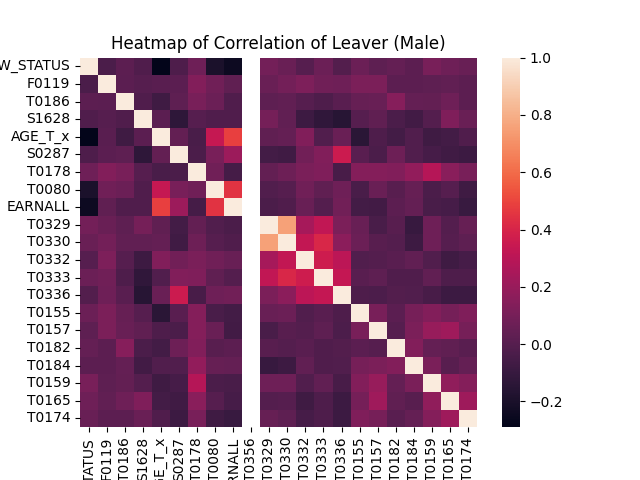
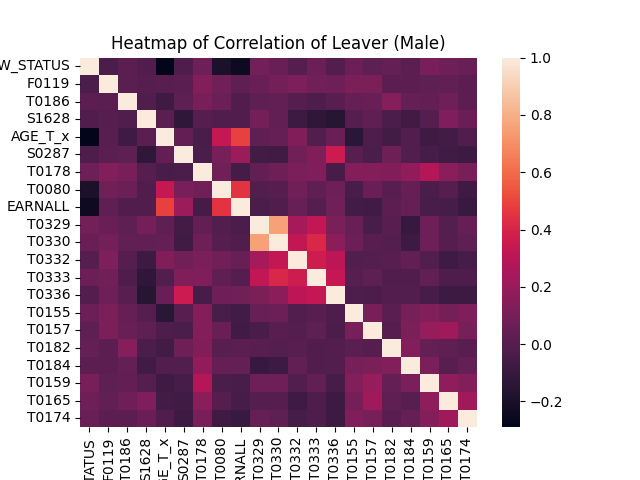
Updated Multiple Regression for all variables | Need to add graph for multi regression

diff --git a/the_code/logistical_regression_multi.py b/the_code/logistical_regression_multi.py
@@ -11,9 +11,9 @@ import matplotlib.pyplot as plt
 import seaborn as sns
 matplotlib.use('Qt5Agg')
 
-df = pd.read_csv('source\data_cleaning\cleaned_data.csv')
-df1 = pd.read_csv('source\data_cleaning\cleaned_data_male.csv')
-df2 = pd.read_csv('source\data_cleaning\cleaned_data_female.csv')
+df = pd.read_csv('source/data_cleaning/cleaned_data.csv')
+df1 = pd.read_csv('source/data_cleaning/cleaned_data_male.csv')
+df2 = pd.read_csv('source/data_cleaning/cleaned_data_female.csv')
 
 
 
@@ -122,41 +122,39 @@ def regressMulti6():
 
 
 def regressMulti7():
-    model = smf.logit('NEW_STATUS ~ C(F0119) + C(T0186) + C(S1628) + C(AGE_T_x) + C(S0287) + C(T0178) + C(T0080) + C(EARNALL)', data = df).fit()
+    model = smf.logit('NEW_STATUS ~ C(F0119) + C(T0186) + C(S1628) + C(AGE_T_x) + C(S0287) + C(T0178) + C(T0080) + C(EARNALL) + C(T0329) + C(T0330) + C(T0332) + C(T0333) +C(T0336) +C(T0336) +C(T0155) +C(T0157) +C(T0182) +C(T0184) +C(T0159) +C(T0165) +C(T0174)', data = df).fit()
     print(model.summary(yname="Status Leaver",
     xname=['Intercept', 'Not Pleased Prof Dev (Overall)', 'No salary increase becasue of prof dev (Overall)', 'No Free Training Avaliable (Overall)',
     'Younger than 40 (Overall)', '20 percent or more free lunch (Overall)','Not useful prof dev (Overall)', 'No Masters Degree (Overall)',
-    'Teachers that make less than 39,999k (Overall)'], 
+    'Teachers that make less than 39,999k (Overall)', 'Student Alcohol Abuse Problem', 'Student Drug Abuse Problem', 'Disrespect Towards Teachers', 'Problem with dropouts',
+    'Problem With Poverty', 'No Mentorship or Couching', 'No Prof Dev Workshops', 'No Tuition reimbersement', 'No reimbersement daily expenses',
+    'No Prof Dev Main Assign', 'No Prof Dev Methods', 'No Prof Dev Student Discipline'], 
     title=' Multiple Linear Regression on F0119, T0186, S1628, AGE_T_x, S0287, T0178 (Overall)'))
     print()
-    model1 = smf.logit('NEW_STATUS ~ C(F0119) + C(T0186) + C(S1628) + C(AGE_T_x) + C(S0287) + C(T0178) + C(T0080) + C(EARNALL)', data = df1).fit()
-    print(model1.summary(yname="Status Leaver",
+
+    model = smf.logit('NEW_STATUS ~ C(F0119) + C(T0186) + C(S1628) + C(AGE_T_x) + C(S0287) + C(T0178) + C(T0080) + C(EARNALL) + C(T0329) + C(T0330) + C(T0332) + C(T0333) +C(T0336) +C(T0336) +C(T0155) +C(T0157) +C(T0182) +C(T0184) +C(T0159) +C(T0165) +C(T0174)', data = df1).fit()
+    print(model.summary(yname="Status Leaver",
     xname=['Intercept', 'Not Pleased Prof Dev (Male)', 'No salary increase becasue of prof dev (Male)', 'No Free Training Avaliable (Male)',
     'Younger than 40 (Male)', '20 percent or more free lunch (Male)','Not useful prof dev (Female)', 'No Masters Degree (Male)',
-    'Teachers that make less than 39,999k (Male)'], 
+    'Teachers that make less than 39,999k (Male)', 'Student Alcohol Abuse Problem', 'Student Drug Abuse Problem', 'Disrespect Towards Teachers', 'Problem with dropouts',
+    'Problem With Poverty', 'No Mentorship or Couching', 'No Prof Dev Workshops', 'No Tuition reimbersement', 'No reimbersement daily expenses',
+    'No Prof Dev Main Assign', 'No Prof Dev Methods', 'No Prof Dev Student Discipline'], 
     title=' Multiple Linear Regression on F0119, T0186, S1628, AGE_T_x, S0287, T0178 (Male)'))
     print()
-    model2 = smf.logit('NEW_STATUS ~ C(F0119) + C(T0186) + C(S1628) + C(AGE_T_x) + C(S0287) + C(T0178) + C(T0080) + C(EARNALL)', data = df2).fit()
-    print(model2.summary(yname="Status Leaver",
+
+    model = smf.logit('NEW_STATUS ~ C(F0119) + C(T0186) + C(S1628) + C(AGE_T_x) + C(S0287) + C(T0178) + C(T0080) + C(EARNALL) + C(T0329) + C(T0330) + C(T0332) + C(T0333) +C(T0336) +C(T0336) +C(T0155) +C(T0157) +C(T0182) +C(T0184) +C(T0159) +C(T0165) +C(T0174)', data = df2).fit()
+    print(model.summary(yname="Status Leaver",
     xname=['Intercept', 'Not Pleased Prof Dev (Female)', 'No salary increase becasue of prof dev (Female)', 'No Free Training Avaliable (Female)',
     'Younger than 40 (Female)', '20 percent or more free lunch (Female)','Not useful prof dev (Female)', 'No Masters Degree (Female)',
-    'Teachers that make less than 39,999k (Female)'], 
+    'Teachers that make less than 39,999k (Female)','Student Alcohol Abuse Problem', 'Student Drug Abuse Problem', 'Disrespect Towards Teachers', 'Problem with dropouts',
+    'Problem With Poverty', 'No Mentorship or Couching', 'No Prof Dev Workshops', 'No Tuition reimbersement', 'No reimbersement daily expenses',
+    'No Prof Dev Main Assign', 'No Prof Dev Methods', 'No Prof Dev Student Discipline'], 
     title=' Multiple Linear Regression on F0119, T0186, S1628, AGE_T_x, S0287, T0178 (Female)'))
     print()
 
 
 
 
-def graph():
-    dep = sns.load_dataset('NEW_STATUS')
-    sad = dep.groupby('F0119')
-    sns.heatmap(sad)
-    # plt.title("Scatter plot of leaver (dependent) and Opportunities of Professional Development")
-    # plt.ylabel('Left Teaching')
-    # plt.savefig('profiling/graph_scatter.png')
-    plt.show()
-    # plt.pause(2)
-    # plt.close()
 
 
 
@@ -166,5 +164,4 @@ def graph():
 # regressMulti4()
 # regressMulti5()
 # regressMulti6()
-# regressMulti7()
-graph()
+regressMulti7()

diff --git a/the_code/linear_regression_multi.py b/the_code/linear_regression_multi.py
@@ -11,9 +11,9 @@ import matplotlib.pyplot as plt
 import seaborn as sns
 
 
-df = pd.read_csv('source\data_cleaning\cleaned_data.csv')
-df1 = pd.read_csv('source\data_cleaning\cleaned_data_male.csv')
-df2 = pd.read_csv('source\data_cleaning\cleaned_data_female.csv')
+df = pd.read_csv('source/data_cleaning/cleaned_data.csv')
+df1 = pd.read_csv('source/data_cleaning/cleaned_data_male.csv')
+df2 = pd.read_csv('source/data_cleaning/cleaned_data_female.csv')
 
 def regressMulti2():
     model = smf.ols('NEW_STATUS ~ C(F0119) + C(T0186)', data = df).fit()
@@ -119,25 +119,33 @@ def regressMulti6():
 
 
 def regressMulti7():
-    model = smf.ols('NEW_STATUS ~ C(F0119) + C(T0186) + C(S1628) + C(AGE_T_x) + C(S0287) + C(T0178) + C(T0080) + C(EARNALL)', data = df).fit()
+    model = smf.ols('NEW_STATUS ~ C(F0119) + C(T0186) + C(S1628) + C(AGE_T_x) + C(S0287) + C(T0178) + C(T0080) + C(EARNALL) + C(T0329) + C(T0330) + C(T0332) + C(T0333) +C(T0336) +C(T0336) +C(T0155) +C(T0157) +C(T0182) +C(T0184) +C(T0159) +C(T0165) +C(T0174)', data = df).fit()
     print(model.summary(yname="Status Leaver",
     xname=['Intercept', 'Not Pleased Prof Dev (Overall)', 'No salary increase becasue of prof dev (Overall)', 'No Free Training Avaliable (Overall)',
     'Younger than 40 (Overall)', '20 percent or more free lunch (Overall)','Not useful prof dev (Overall)', 'No Masters Degree (Overall)',
-    'Teachers that make less than 39,999k (Overall)'], 
+    'Teachers that make less than 39,999k (Overall)', 'Student Alcohol Abuse Problem', 'Student Drug Abuse Problem', 'Disrespect Towards Teachers', 'Problem with dropouts',
+    'Problem With Poverty', 'No Mentorship or Couching', 'No Prof Dev Workshops', 'No Tuition reimbersement', 'No reimbersement daily expenses',
+    'No Prof Dev Main Assign', 'No Prof Dev Methods', 'No Prof Dev Student Discipline'], 
     title=' Multiple Linear Regression on F0119, T0186, S1628, AGE_T_x, S0287, T0178 (Overall)'))
     print()
-    model = smf.ols('NEW_STATUS ~ C(F0119) + C(T0186) + C(S1628) + C(AGE_T_x) + C(S0287) + C(T0178) + C(T0080) + C(EARNALL)', data = df1).fit()
+
+    model = smf.ols('NEW_STATUS ~ C(F0119) + C(T0186) + C(S1628) + C(AGE_T_x) + C(S0287) + C(T0178) + C(T0080) + C(EARNALL) + C(T0329) + C(T0330) + C(T0332) + C(T0333) +C(T0336) +C(T0336) +C(T0155) +C(T0157) +C(T0182) +C(T0184) +C(T0159) +C(T0165) +C(T0174)', data = df1).fit()
     print(model.summary(yname="Status Leaver",
     xname=['Intercept', 'Not Pleased Prof Dev (Male)', 'No salary increase becasue of prof dev (Male)', 'No Free Training Avaliable (Male)',
     'Younger than 40 (Male)', '20 percent or more free lunch (Male)','Not useful prof dev (Female)', 'No Masters Degree (Male)',
-    'Teachers that make less than 39,999k (Male)'], 
+    'Teachers that make less than 39,999k (Male)', 'Student Alcohol Abuse Problem', 'Student Drug Abuse Problem', 'Disrespect Towards Teachers', 'Problem with dropouts',
+    'Problem With Poverty', 'No Mentorship or Couching', 'No Prof Dev Workshops', 'No Tuition reimbersement', 'No reimbersement daily expenses',
+    'No Prof Dev Main Assign', 'No Prof Dev Methods', 'No Prof Dev Student Discipline'], 
     title=' Multiple Linear Regression on F0119, T0186, S1628, AGE_T_x, S0287, T0178 (Male)'))
     print()
-    model = smf.ols('NEW_STATUS ~ C(F0119) + C(T0186) + C(S1628) + C(AGE_T_x) + C(S0287) + C(T0178) + C(T0080) + C(EARNALL)', data = df2).fit()
+
+    model = smf.ols('NEW_STATUS ~ C(F0119) + C(T0186) + C(S1628) + C(AGE_T_x) + C(S0287) + C(T0178) + C(T0080) + C(EARNALL) + C(T0329) + C(T0330) + C(T0332) + C(T0333) +C(T0336) +C(T0336) +C(T0155) +C(T0157) +C(T0182) +C(T0184) +C(T0159) +C(T0165) +C(T0174)', data = df2).fit()
     print(model.summary(yname="Status Leaver",
     xname=['Intercept', 'Not Pleased Prof Dev (Female)', 'No salary increase becasue of prof dev (Female)', 'No Free Training Avaliable (Female)',
     'Younger than 40 (Female)', '20 percent or more free lunch (Female)','Not useful prof dev (Female)', 'No Masters Degree (Female)',
-    'Teachers that make less than 39,999k (Female)'], 
+    'Teachers that make less than 39,999k (Female)','Student Alcohol Abuse Problem', 'Student Drug Abuse Problem', 'Disrespect Towards Teachers', 'Problem with dropouts',
+    'Problem With Poverty', 'No Mentorship or Couching', 'No Prof Dev Workshops', 'No Tuition reimbersement', 'No reimbersement daily expenses',
+    'No Prof Dev Main Assign', 'No Prof Dev Methods', 'No Prof Dev Student Discipline'], 
     title=' Multiple Linear Regression on F0119, T0186, S1628, AGE_T_x, S0287, T0178 (Female)'))
     print()
 
@@ -146,9 +154,9 @@ def regressMulti7():
 
 
 
-regressMulti2()
-regressMulti3()
-regressMulti4()
-regressMulti5()
-regressMulti6()
+# regressMulti2()
+# regressMulti3()
+# regressMulti4()
+# regressMulti5()
+# regressMulti6()
 regressMulti7()

diff --git a/the_code/data_cleaning.py b/the_code/data_cleaning.py
@@ -46,13 +46,6 @@ df['T0330'] = df['T0330'].replace([1,2,3,4], [1,1,0,0]) # does have a dug abouse
 df['T0332'] = df['T0332'].replace([1,2,3,4], [1,1,0,0]) # Problem disrepect towards teachers
 df['T0333'] = df['T0333'].replace([1,2,3,4], [1,1,0,0]) # Problem with dropouts
 df['T0336'] = df['T0336'].replace([1,2,3,4], [1,1,0,0]) # Problem with poverty
-# df['F0752'] = df['F0752'].replace([1,2,3,4,5,-8], [0,0,1,1,1,np.nan]) # Disatisfied with working conditions
-# df['F0746'] = df['F0746'].replace([1,2,3,4,5,-8], [1,1,np.nan,0,0,np.nan]) # Do not have shared beliefs with collegues
-# df['F0747'] = df['F0747'].replace([1,2,3,4,5,-8], [1,1,np.nan,0,0,np.nan]) # There was not a great deal of cooperative effort among the staf
-# df['F0754'] = df['F0754'].replace([1,2,3,4,5,-8], [0,0,1,1,1,np.nan]) # Disasisfied with changes in job discription and details
-# df['F0757'] = df['F0757'].replace([1,2,3,4,5,-8], [0,1,1,1,1,np.nan]) # Importance of being laid off involuntary or voluntary
-# df['F0759'] = df['F0759'].replace([1,2,3,4,5,-8], [0,1,1,1,1,np.nan]) # I was dissatisfied with opportunities for professional development at last year's school
-# df['F0796'] = df['F0796'].replace([1,2,3,4,5], [1,1,1,0,0]) # Base teacher salary under 35k
 df['T0155'] = df['T0155'].replace([1,2], [0,1]) # No Mentoring and/or peer observation and coaching, as part of a formal arrangement that is recognized or supported by the school or district
 df['T0157'] = df['T0157'].replace([1,2], [0,1]) # No to attending workshops, conferences or training
 df['T0182'] = df['T0182'].replace([1,2], [0,1]) # No to full or partial reimbursement of college tuition - which is type of support
@@ -84,8 +77,8 @@ def dataClean():
 
 def correlationMatrix():
     cor = df.corr()
-    cor2 = df2.corr().drop('T0356')
-    cor3 = df3.corr().drop('T0356')
+    cor2 = df2.corr().drop(columns=['T0356']).drop('T0356')
+    cor3 = df3.corr().drop(columns=['T0356']).drop('T0356')
     print('\n\n')
     print('Correlation Matrix of overall data')
     print(cor)
@@ -96,6 +89,7 @@ def correlationMatrix():
     print('Correlation Matrix of female data')
     print(cor3)
     print()
+
     sns.heatmap(cor)
     plt.title("Heatmap of Correlation of Leaver (Overall)")
     plt.show(block=False)
